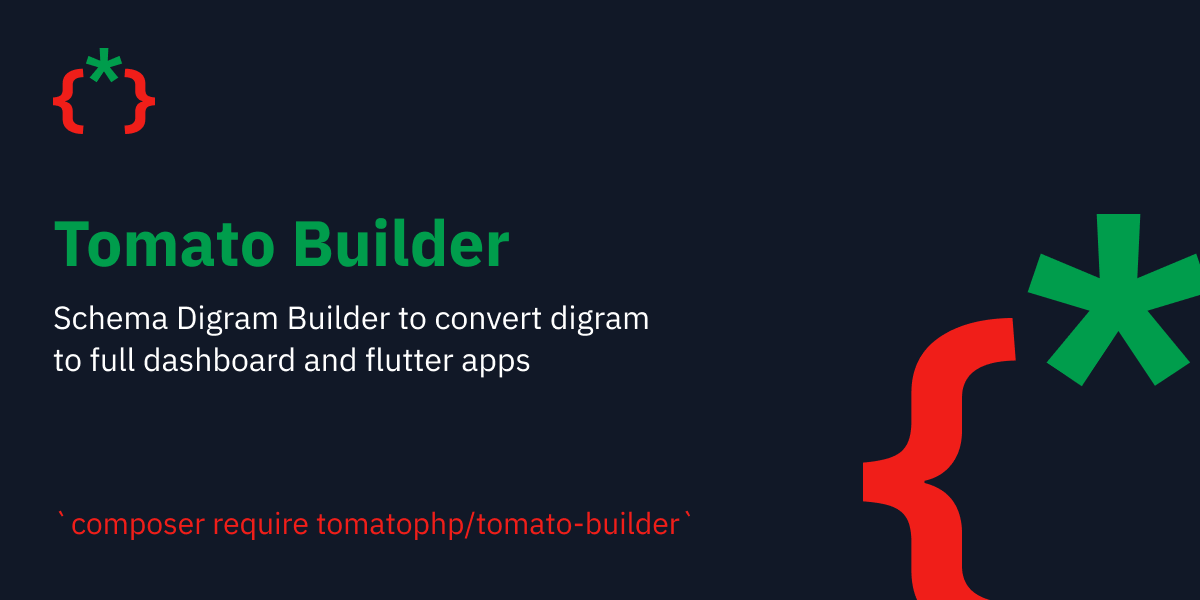
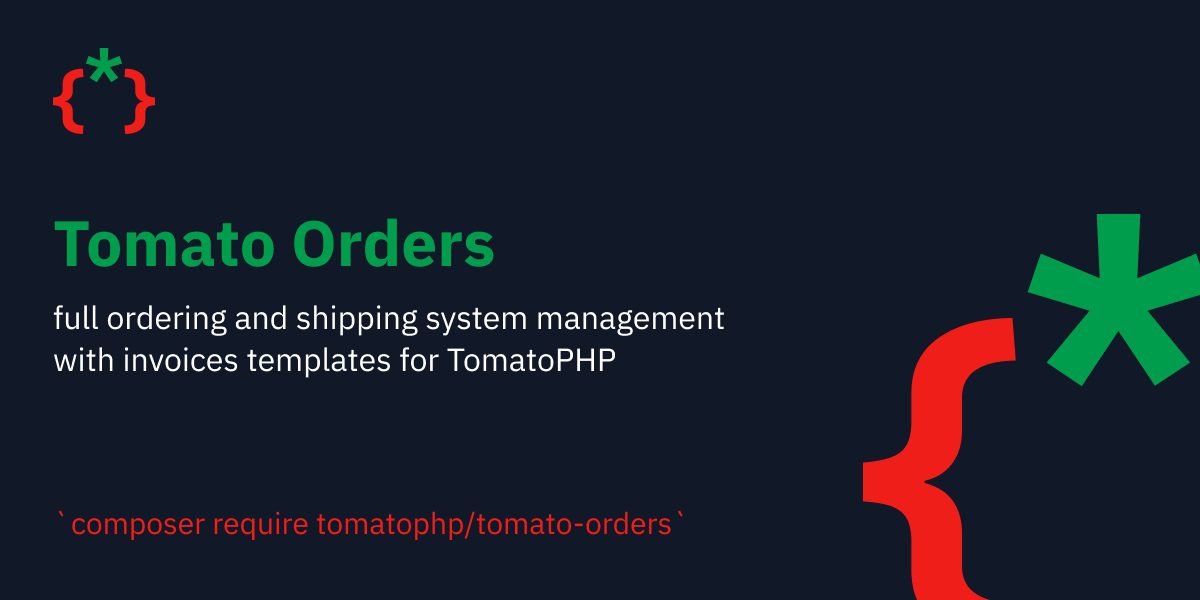
GITBOOK-131: change request with no subject merged in GitBook

Changed region(s): [[0.0308, 0.51, 0.6167, 0.63], [0.2467, 0.36, 0.4317, 0.45], [0.4933, 0.84, 0.5858, 0.9]]

diff --git a/plugins/tomato-products/README.md b/plugins/tomato-products/README.md
@@ -1,0 +1,39 @@
+---
+description: >-
+  A Full Products Management With tons of functions and multi variations and
+  prices, stock.
+---
+
+# 👜 Tomato Products
+
+<figure><img src="../../.gitbook/assets/screenshot (1).png" alt=""><figcaption></figcaption></figure>
+
+<figure><img src="../../.gitbook/assets/Screenshot 2023-11-23 at 4.20.01 PM (1).png" alt=""><figcaption></figcaption></figure>
+
+### Installation
+
+```
+composer require tomatophp/tomato-products
+```
+
+after installing your package please run this command
+
+```
+php artisan tomato-products:install
+```
+
+### Changelog
+
+Please see [CHANGELOG](https://github.com/tomatophp/tomato-products/blob/master/CHANGELOG.md) for more information on what has changed recently.
+
+### Security
+
+Please see [SECURITY](https://github.com/tomatophp/tomato-products/blob/master/SECURITY.md) for more information about security.
+
+### Credits
+
+* [Fady Mondy](mailto:info@3x1.io)
+
+### License
+
+The MIT License (MIT). Please see [License File](https://github.com/tomatophp/tomato-products/blob/master/LICENSE.md) for more information.

diff --git a/plugins/tomato-orders/README.md b/plugins/tomato-orders/README.md
@@ -1,0 +1,39 @@
+---
+description: >-
+  full ordering and shipping system management with invoices templates for
+  TomatoPHP
+---
+
+# 🚀 Tomato Orders
+
+<figure><img src="../../.gitbook/assets/screenshot.png" alt=""><figcaption></figcaption></figure>
+
+<figure><img src="../../.gitbook/assets/Screenshot 2023-11-23 at 4.34.05 PM (1).png" alt=""><figcaption></figcaption></figure>
+
+### Installation
+
+```
+composer require tomatophp/tomato-orders
+```
+
+after installing your package please run this command
+
+```
+php artisan tomato-orders:install
+```
+
+### Changelog
+
+Please see [CHANGELOG](https://github.com/tomatophp/tomato-orders/blob/master/CHANGELOG.md) for more information on what has changed recently.
+
+### Security
+
+Please see [SECURITY](https://github.com/tomatophp/tomato-orders/blob/master/SECURITY.md) for more information about security.
+
+### Credits
+
+* [Fady Mondy](mailto:info@3x1.io)
+
+### License
+
+The MIT License (MIT). Please see [License File](https://github.com/tomatophp/tomato-orders/blob/master/LICENSE.md) for more information.

diff --git a/plugins/tomato-orders/screenshots.md b/plugins/tomato-orders/screenshots.md
@@ -1,0 +1,29 @@
+# 🌆 Screenshots
+
+
+
+<div>
+
+<figure><img src="../../.gitbook/assets/Screenshot 2023-11-23 at 4.33.55 PM.png" alt=""><figcaption></figcaption></figure>
+
+ 
+
+<figure><img src="../../.gitbook/assets/Screenshot 2023-11-23 at 4.34.05 PM.png" alt=""><figcaption></figcaption></figure>
+
+ 
+
+<figure><img src="../../.gitbook/assets/Screenshot 2023-11-23 at 4.34.13 PM.png" alt=""><figcaption></figcaption></figure>
+
+ 
+
+<figure><img src="../../.gitbook/assets/Screenshot 2023-11-23 at 4.34.30 PM.png" alt=""><figcaption></figcaption></figure>
+
+ 
+
+<figure><img src="../../.gitbook/assets/Screenshot 2023-11-23 at 4.34.40 PM.png" alt=""><figcaption></figcaption></figure>
+
+ 
+
+<figure><img src="../../.gitbook/assets/Screenshot 2023-11-23 at 4.34.53 PM.png" alt=""><figcaption></figcaption></figure>
+
+</div>

diff --git a/plugins/tomato-products/screenshots.md b/plugins/tomato-products/screenshots.md
@@ -1,0 +1,29 @@
+# 🌆 Screenshots
+
+
+
+<div>
+
+<figure><img src="../../.gitbook/assets/Screenshot 2023-11-23 at 4.20.01 PM.png" alt=""><figcaption></figcaption></figure>
+
+ 
+
+<figure><img src="../../.gitbook/assets/Screenshot 2023-11-23 at 4.20.22 PM.png" alt=""><figcaption></figcaption></figure>
+
+ 
+
+<figure><img src="../../.gitbook/assets/Screenshot 2023-11-23 at 4.20.37 PM.png" alt=""><figcaption></figcaption></figure>
+
+ 
+
+<figure><img src="../../.gitbook/assets/Screenshot 2023-11-23 at 4.20.56 PM.png" alt=""><figcaption></figcaption></figure>
+
+ 
+
+<figure><img src="../../.gitbook/assets/Screenshot 2023-11-23 at 4.21.05 PM.png" alt=""><figcaption></figcaption></figure>
+
+ 
+
+<figure><img src="../../.gitbook/assets/Screenshot 2023-11-23 at 4.23.26 PM.png" alt=""><figcaption></figcaption></figure>
+
+</div>

diff --git a/SUMMARY.md b/SUMMARY.md
@@ -127,6 +127,12 @@
   * [🖍 Use](plugins/tomato-builder/use.md)
   * [🌆 Screenshots](plugins/tomato-builder/screenshots.md)
   * [💿 Config](plugins/tomato-builder/config.md)
+* [👜 Tomato Products](plugins/tomato-products/README.md)
+  * [💿 Config](plugins/tomato-products/config.md)
+  * [🌆 Screenshots](plugins/tomato-products/screenshots.md)
+* [🚀 Tomato Orders](plugins/tomato-orders/README.md)
+  * [💿 Config](plugins/tomato-orders/config.md)
+  * [🌆 Screenshots](plugins/tomato-orders/screenshots.md)
 
 ## Helpers
 

diff --git a/plugins/tomato-products/config.md b/plugins/tomato-products/config.md
@@ -1,0 +1,25 @@
+# 💿 Config
+
+you can publish a config file by using this command
+
+```
+php artisan vendor:publish --tag="tomato-products-config"
+```
+
+you can publish view files by using this command
+
+```
+php artisan vendor:publish --tag="tomato-products-views"
+```
+
+you can publish language files by using this command
+
+```
+php artisan vendor:publish --tag="tomato-products-lang"
+```
+
+you can publish migration files by using this command
+
+```
+php artisan vendor:publish --tag="tomato-products-migrations"
+```

diff --git a/plugins/tomato-orders/config.md b/plugins/tomato-orders/config.md
@@ -1,0 +1,25 @@
+# 💿 Config
+
+you can publish a config file by using this command
+
+```
+php artisan vendor:publish --tag="tomato-orders-config"
+```
+
+you can publish view files by using this command
+
+```
+php artisan vendor:publish --tag="tomato-orders-views"
+```
+
+you can publish language files by using this command
+
+```
+php artisan vendor:publish --tag="tomato-orders-lang"
+```
+
+you can publish migration files by using this command
+
+```
+php artisan vendor:publish --tag="tomato-orders-migrations"
+```

diff --git a/plugins/tomato-builder/README.md b/plugins/tomato-builder/README.md
@@ -6,7 +6,7 @@ description: >-
 
 # 🏗 Tomato Builder
 
-<figure><img src="../../.gitbook/assets/screenshot.png" alt=""><figcaption></figcaption></figure>
+<figure><img src="../../.gitbook/assets/screenshot (2).png" alt=""><figcaption></figcaption></figure>
 
 <figure><img src="../../.gitbook/assets/Screenshot 2023-11-23 at 3.54.10 PM.png" alt=""><figcaption></figcaption></figure>
 

diff --git a/helpers/laravel-console-helpers.md b/helpers/laravel-console-helpers.md
@@ -4,7 +4,7 @@ description: tons of helper you need for you artisan command line application
 
 # 🍕 Laravel Console Helpers
 
-<figure><img src="../.gitbook/assets/screenshot (1).png" alt=""><figcaption></figcaption></figure>
+<figure><img src="../.gitbook/assets/screenshot (1) (1).png" alt=""><figcaption></figcaption></figure>
 
 ## Installation
 

diff --git a/plugins/tomato-cms/README.md b/plugins/tomato-cms/README.md
@@ -4,7 +4,7 @@ description: full CMS System to manage your content build for Tomato PHP
 
 # 📃 Tomato CMS
 
-<figure><img src="../../.gitbook/assets/screenshot (2).png" alt=""><figcaption></figcaption></figure>
+<figure><img src="../../.gitbook/assets/screenshot (2) (1).png" alt=""><figcaption></figcaption></figure>
 
 ### Installation
 
